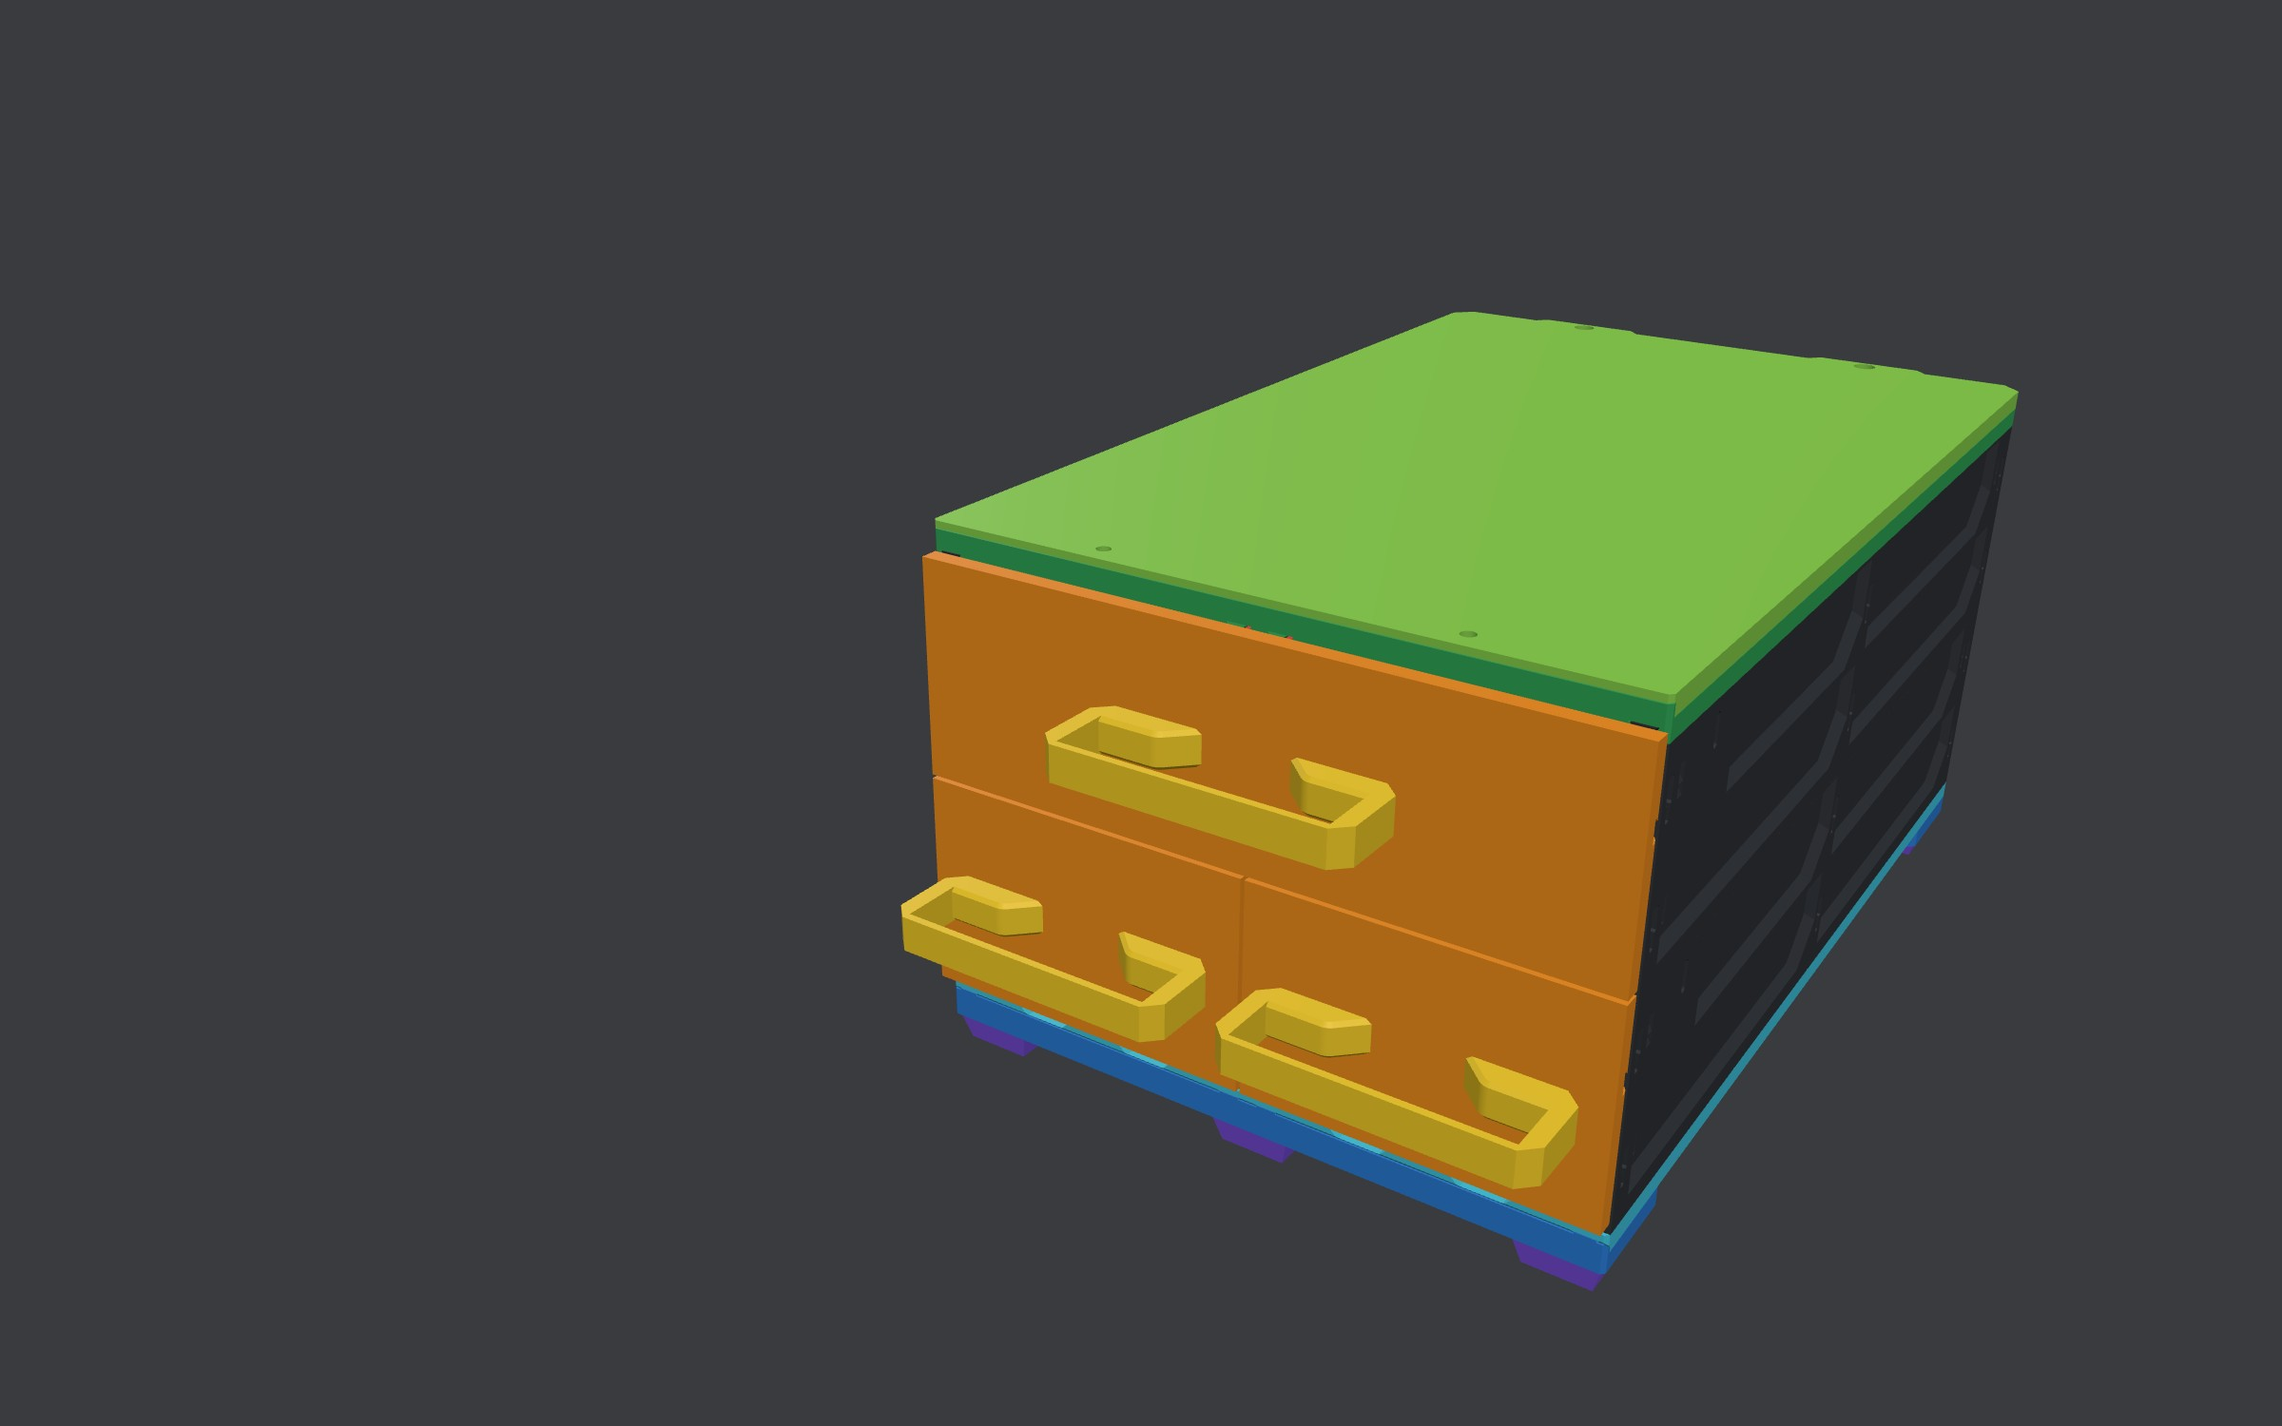
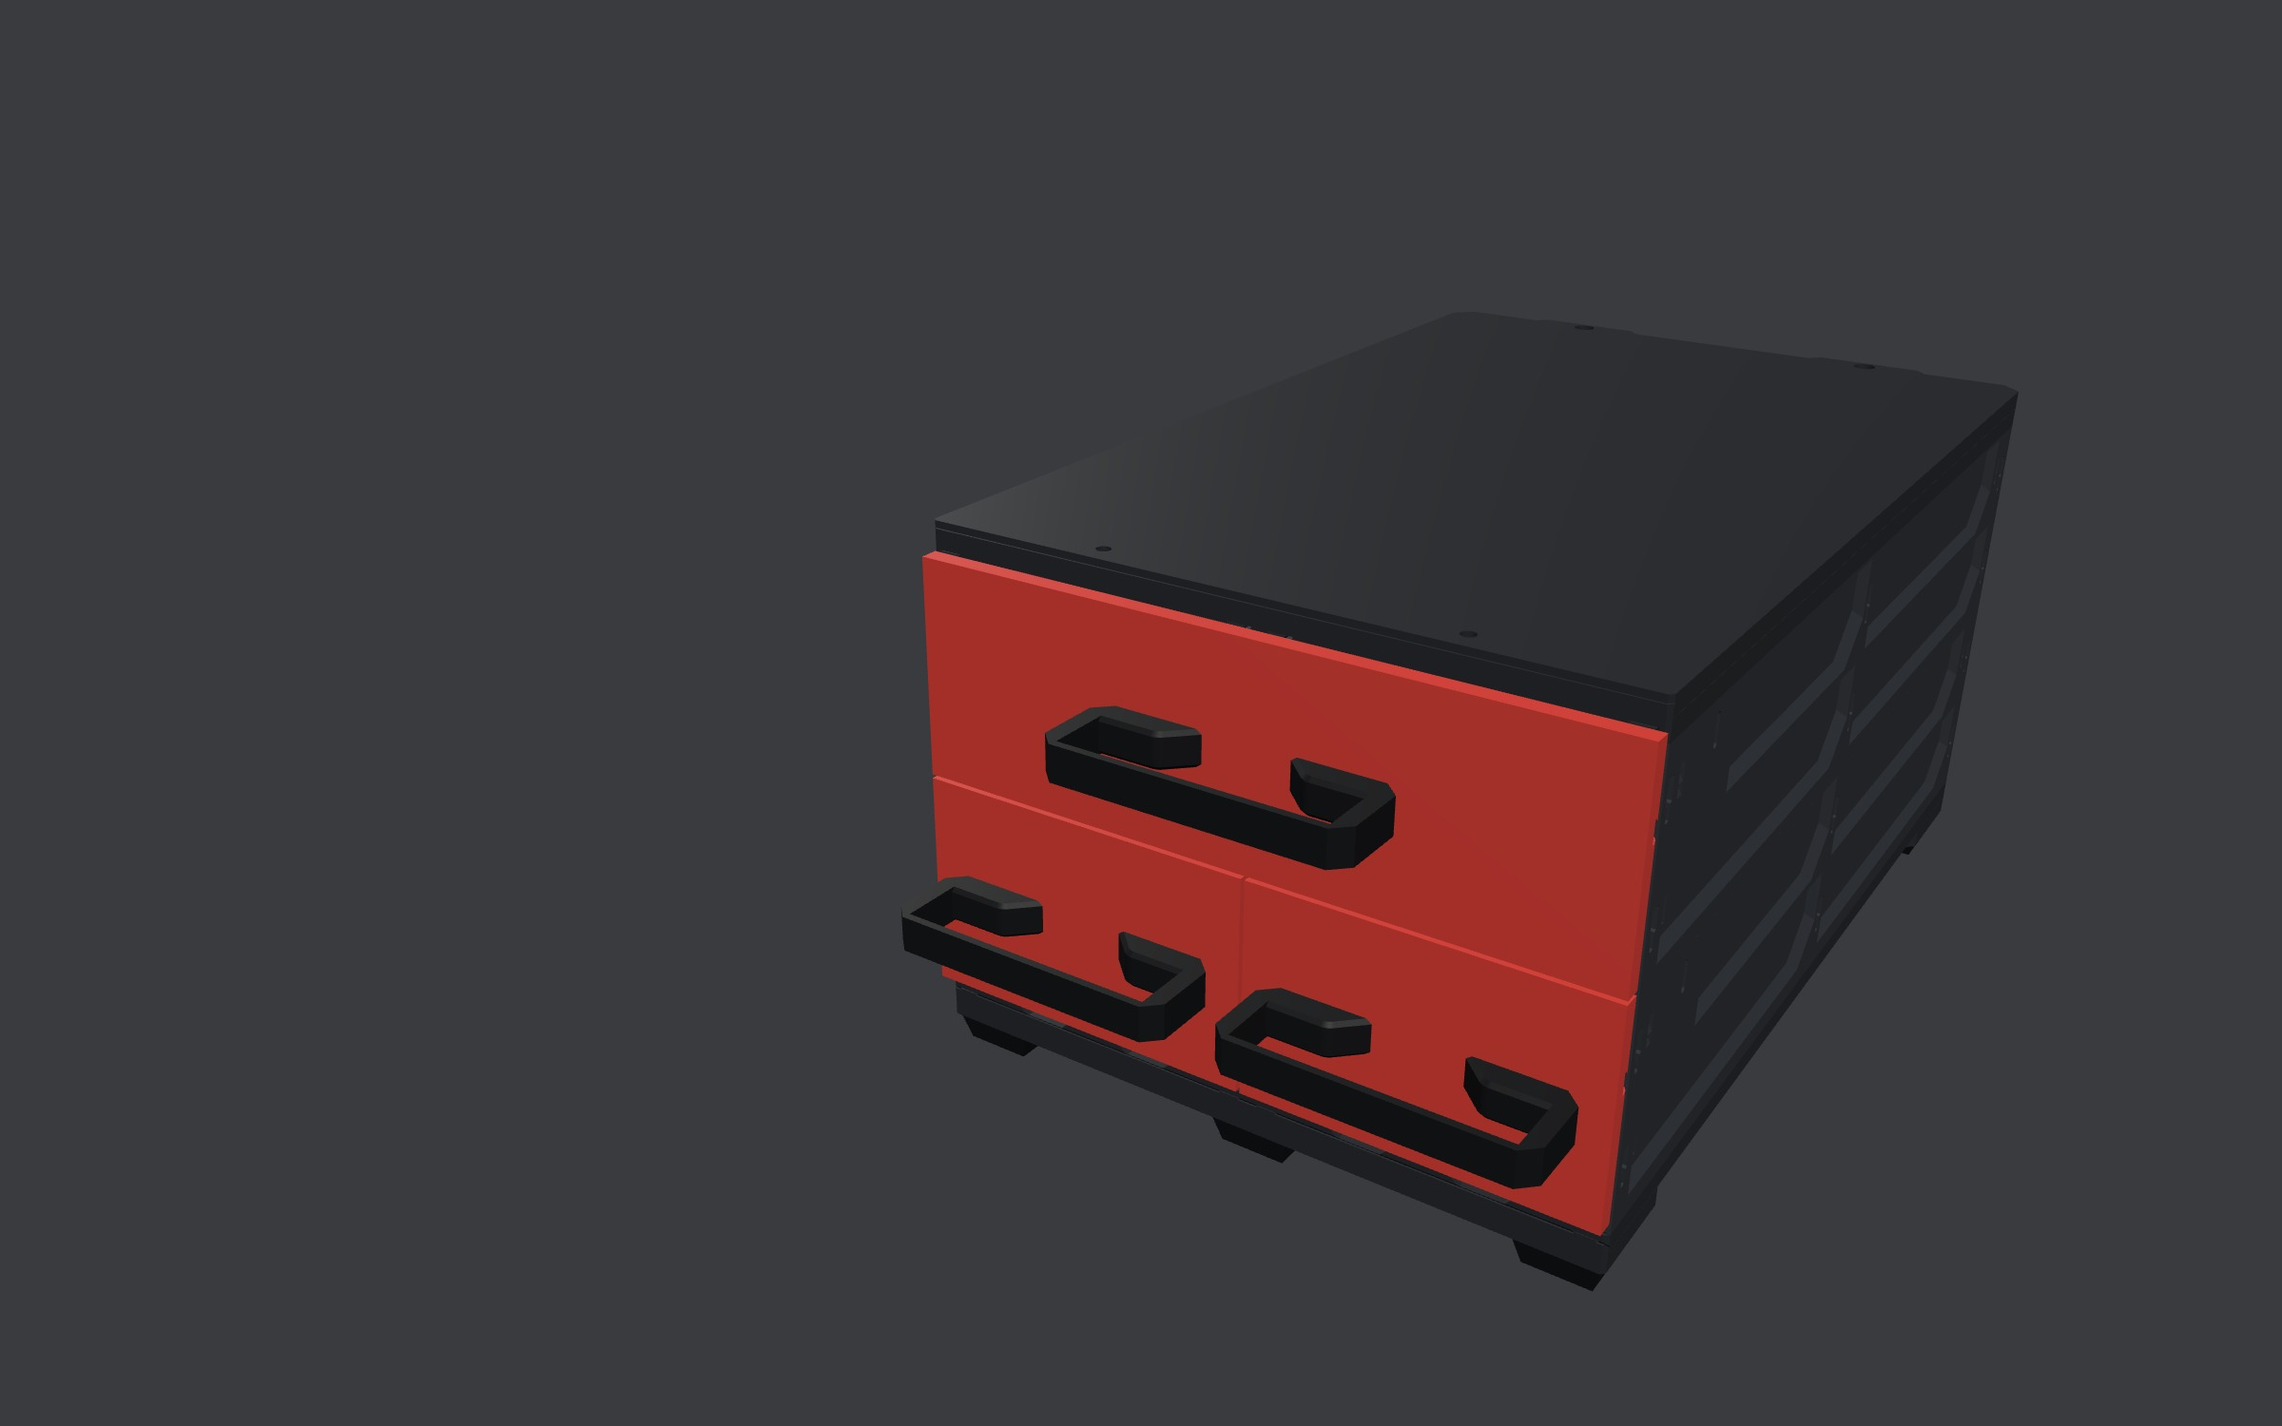
Starter Kits: per-collection card art, mount-ready sections, dimmer card art
Card art (Joey): every kit looked the same at thumbnail size because they all
wore the instruction rainbow. captureShot() now forces a product palette —
faceplates take the COLLECTION color (the planner's lineup palette) and the
rest of the shell goes graphite/black, so 115 grey / 165 blue / 185 orange /
240 green / 270 red are distinguishable at a glance. The shot logic moved into
captureShot() and is exported on the debug hook, so automated captures drive
the exact same path as ?shot=1 instead of a copy that can drift. All seven
renders + banners regenerated.

Card gradient holds further right so the art sits back behind the copy.

Framing: "Official kits" -> "GEN2 starter kits · lay the first brick" — these
are a starting point to expand from, not a badge of authority.

Sections are now MOUNT × SIZE ahead of the under-table/wall kits: rows carry
`mount`, headings read "Tabletop · 2W-2H" once more than one mount exists, and
a mount filter bar appears on the same condition. Mount leads because it's the
planner's question 1 and the builder's real constraint. Verified by injecting
fake wall/under-table rows: 4 filter chips, 5 correctly-ordered sections,
filtering narrows to 2 cards.

diff --git a/viewer/builds/index.html b/viewer/builds/index.html
@@ -3,8 +3,8 @@
 <head>
 <meta charset="utf-8">
 <meta name="viewport" content="width=device-width, initial-scale=1">
-<title>Official GEN2 Kits — 3D Build Studio</title>
-<meta name="description" content="Preconfigured GEN2 builds with interactive LEGO-style 3D assembly instructions. Pick a kit, follow the steps, make it yours.">
+<title>GEN2 Starter Kits — 3D Build Studio</title>
+<meta name="description" content="Ready-made GEN2 builds with interactive LEGO-style 3D assembly instructions. Print a starter kit, follow the steps, then expand it in the planner.">
 <style>
 /* A secondary page of the GEN2 Planner — the :root tokens, parallax hero,
    brand bar and footer are all mirrored from gen2-planner css/style.css so the
@@ -131,6 +131,15 @@ a { color: var(--accent); }
 }
 .tier-head h2 { font-size: 1.05rem; margin: 0; }
 .tier-head span { font-size: 0.85rem; color: var(--muted); }
+/* mount filter — only rendered once there's more than one mount to pick from */
+.filter-bar { display: flex; gap: 8px; flex-wrap: wrap; margin: 22px 0 2px; }
+.filter-chip {
+  font: inherit; font-size: 0.82rem; font-weight: 600; cursor: pointer;
+  color: var(--muted); background: transparent;
+  border: 1px solid var(--line); border-radius: 999px; padding: 6px 14px;
+}
+.filter-chip:hover { color: var(--text); border-color: var(--muted); }
+.filter-chip.on { color: #1d1e20; background: var(--accent); border-color: var(--accent); }
 .tier-grid {
   display: grid; grid-template-columns: repeat(auto-fill, minmax(480px, 1fr)); gap: 20px;
   align-content: start; margin-top: 14px;
@@ -156,8 +165,10 @@ a { color: var(--accent); }
 .kit-card:hover { transform: translateY(-2px); box-shadow: 0 8px 22px rgba(0,0,0,0.45); }
 .kit-card::before {                     /* legibility gradient over the render */
   content: ""; position: absolute; inset: 0;
+  /* holds all the way to the right edge (…,0.20) so the art sits back a little
+     and the copy always wins — Joey asked for the image to drop in opacity */
   background: linear-gradient(90deg,
-    rgba(44,45,49,0.94) 0%, rgba(44,45,49,0.82) 42%, rgba(44,45,49,0.25) 75%, rgba(44,45,49,0.05) 100%);
+    rgba(44,45,49,0.97) 0%, rgba(44,45,49,0.90) 44%, rgba(44,45,49,0.45) 74%, rgba(44,45,49,0.20) 100%);
   pointer-events: none;
 }
 .kit-body { position: relative; padding: 18px 20px; max-width: 78%; }
@@ -228,9 +239,9 @@ a { color: var(--accent); }
     </span>
   </div>
   <div class="hero-tagline">
-    <h1>Official GEN2 kits &middot; proven builds, ready to print.</h1>
-    <p>Pick a kit and follow the interactive 3D guide step by step - every part, quantity and download link included. Open it in the planner whenever you want to make it your own.</p>
-    <div class="hero-chips"><span>Proven layouts</span><span>Interactive 3D guide</span><span>Full parts list</span></div>
+    <h1>GEN2 starter kits &middot; lay the first brick.</h1>
+    <p>A ready-made build to get you going - follow the interactive 3D guide step by step, with every part, quantity and download link included. Expand it or make it your own in the planner whenever you're ready.</p>
+    <div class="hero-chips"><span>Nothing to design</span><span>Interactive 3D guide</span><span>Full parts list</span></div>
   </div>
 </header>
 
@@ -278,38 +289,80 @@ for (const a of document.querySelectorAll('.planner-link, #brand-home')) a.href 
 // render (builds/img/<id>.jpg). Length colors mirror the planner's
 // GEN2.lengths palette exactly.
 const LENGTH_COLORS = { 59: '#f2f2f2', 115: '#9ea3a8', 165: '#3aa0e8', 185: '#ff8a40', 240: '#3ecfa0', 270: '#e8453c' };
+/* Sections are keyed by MOUNT × SIZE, in that order. Mount is the first thing a
+   builder actually knows ("where will this live?") and it's the planner's own
+   question 1, so it leads; size is the progression inside it. A flat list of
+   (mount, size) sections beats nesting — it stays scannable as under-table and
+   wall kits land, and the mount filter below keeps the page from growing
+   unbounded. Rows missing mount/tier fall into the first of each. */
+const MOUNTS = [
+  { key: 'tabletop',    label: 'Tabletop' },
+  { key: 'under-table', label: 'Under-Table' },
+  { key: 'wall',        label: 'Wall Mount' },
+];
 const TIERS = [
-  { key: 'starter', title: 'Start here', blurb: '2W-2H · your first GEN2 build - 3 drawers, about 42 printed parts.' },
-  { key: 'next',    title: 'Go bigger',  blurb: '3W-2H · the same assembly one column wider - 5 drawers, and the covers stagger brick-style.' },
+  { key: 'starter', label: '2W-2H', blurb: 'Start here - 3 drawers, about 42 printed parts.' },
+  { key: 'next',    label: '3W-2H', blurb: 'One column wider - 5 drawers, and the covers stagger brick-style.' },
 ];
 
+let ALL_KITS = [];
+let mountFilter = 'all';
+
 fetch('index.json').then(r => r.json()).then(kits => {
-  const main = document.getElementById('kits');
-  main.innerHTML = '';
-  if (!Array.isArray(kits) || !kits.length) {
-    main.innerHTML = '<div id="empty">No kits published yet — check back soon!</div>';
-    return;
-  }
-  // group into tiers; anything with an unknown/missing tier lands in the first
-  const groups = TIERS.map(t => ({ ...t, kits: kits.filter(k => (k.tier || TIERS[0].key) === t.key) }))
-    .filter(g => g.kits.length);
-  for (const g of groups) {
-    if (groups.length > 1) {
-      const head = document.createElement('div');
-      head.className = 'tier-head';
-      const h = document.createElement('h2'); h.textContent = g.title;
-      const s = document.createElement('span'); s.textContent = g.blurb;
-      head.append(h, s);
-      main.appendChild(head);
-    }
-    const grid = document.createElement('div');
-    grid.className = 'tier-grid';
-    main.appendChild(grid);
-    renderCards(g.kits, grid);
-  }
+  ALL_KITS = Array.isArray(kits) ? kits : [];
+  render();
 }).catch(() => {
   document.getElementById('kits').innerHTML = '<div id="empty">Couldn’t load the kit list — try refreshing.</div>';
 });
+
+function render() {
+  const main = document.getElementById('kits');
+  main.innerHTML = '';
+  if (!ALL_KITS.length) {
+    main.innerHTML = '<div id="empty">No kits published yet — check back soon!</div>';
+    return;
+  }
+  const mountOf = k => k.mount || MOUNTS[0].key;
+  const present = MOUNTS.filter(m => ALL_KITS.some(k => mountOf(k) === m.key));
+  // the filter only earns its space once there's more than one mount to choose
+  if (present.length > 1) main.appendChild(buildFilter(present));
+
+  const shown = ALL_KITS.filter(k => mountFilter === 'all' || mountOf(k) === mountFilter);
+  for (const m of present) {
+    if (mountFilter !== 'all' && m.key !== mountFilter) continue;
+    for (const t of TIERS) {
+      const group = shown.filter(k => mountOf(k) === m.key && (k.tier || TIERS[0].key) === t.key)
+        .sort((a, b) => (a.length || 0) - (b.length || 0));
+      if (!group.length) continue;
+      const head = document.createElement('div');
+      head.className = 'tier-head';
+      const h = document.createElement('h2');
+      // with a single mount the label would just repeat itself on every heading
+      h.textContent = present.length > 1 ? `${m.label} · ${t.label}` : t.label;
+      const s = document.createElement('span');
+      s.textContent = t.blurb;
+      head.append(h, s);
+      const grid = document.createElement('div');
+      grid.className = 'tier-grid';
+      main.append(head, grid);
+      renderCards(group, grid);
+    }
+  }
+}
+
+function buildFilter(present) {
+  const bar = document.createElement('div');
+  bar.className = 'filter-bar';
+  for (const opt of [{ key: 'all', label: 'All kits' }, ...present]) {
+    const b = document.createElement('button');
+    b.type = 'button';
+    b.className = 'filter-chip' + (mountFilter === opt.key ? ' on' : '');
+    b.textContent = opt.label;
+    b.onclick = () => { mountFilter = opt.key; render(); };
+    bar.appendChild(b);
+  }
+  return bar;
+}
 
 function renderCards(kits, main) {
   for (const k of kits) {

diff --git a/viewer/js/main.js b/viewer/js/main.js
@@ -3253,12 +3253,32 @@ booted = true;
 // chrome never reaches toDataURL). Repeatable for every future official kit:
 // open ?build=<id>&shot=1, save the download, commit. The render loop's own
 // resize() restores the canvas on the next frame, so the page stays usable.
-if (new URLSearchParams(location.search).get('shot')) {
+// The planner's per-length lineup colors (data.js GEN2.lengths) — card art is
+// tinted with them so the kits don't all look identical across collections.
+const SHOT_LEN_COLORS = { 59: '#f2f2f2', 115: '#9ea3a8', 165: '#3aa0e8', 185: '#ff8a40', 240: '#3ecfa0', 270: '#e8453c' };
+function captureShot() {
   applyState(manifest.steps.length - 1);          // assembled, deterministic
   table.visible = grid.visible = false;
   if (isWallBuild) wall.visible = false;
   if (isUnderTableBuild) surface.visible = false;
   scene.background = new THREE.Color(0x3a3b3f);
+  // Card palette (Joey 2026-07-24): the instruction rainbow made every kit read
+  // the same at thumbnail size. Faceplates take the COLLECTION color and the
+  // rest of the shell goes graphite, so the length is the thing you see first.
+  // Deterministic — it replaces whatever palette the tab happens to be holding.
+  const shotHex = SHOT_LEN_COLORS[parseInt(manifest.collection, 10)];
+  if (shotHex) {
+    const graphite = { name: 'Graphite', hex: '#2b2d31' }, dark = { name: 'Black', hex: '#17181a' };
+    customColors = {
+      Faceplate: { name: 'Collection', hex: shotHex },
+      Handle: dark, Accent: dark, Label: { name: 'White', hex: '#eef0f4' },
+      CoverL: graphite, CoverU: graphite, FootrailL: graphite, FootrailU: graphite,
+      Foot: dark, QuickLock: graphite, Stopper: graphite, Rail: graphite,
+      Drawer: { name: 'Shell', hex: '#3c3f45' },
+    };
+    useCustom = true;
+    applyPalette();
+  }
   const W = 1200, H = 750;                        // 16:10 — the gallery card's aspect
   renderer.setSize(W, H, false);
   camera.aspect = W / H;
@@ -3273,8 +3293,11 @@ if (new URLSearchParams(location.search).get('shot')) {
   camera.position.copy(pos);
   camera.lookAt(target);
   renderer.render(scene, camera);
+  return renderer.domElement.toDataURL('image/jpeg', 0.92);
+}
+if (new URLSearchParams(location.search).get('shot')) {
   const a = document.createElement('a');
-  a.href = renderer.domElement.toDataURL('image/jpeg', 0.92);
+  a.href = captureShot();
   a.download = (OFFICIAL ? OFFICIAL.id : 'build') + '.jpg';
   a.click();
 }
@@ -3325,6 +3348,6 @@ renderer.setAnimationLoop(now => {
 // dev-only hook (mirrors the planner's guarded test-hook convention): ?debug=1
 if (new URLSearchParams(location.search).get('debug')) {
   window.__GEN2_VIEWER__ = { THREE, scene, camera, controls, goTo, applyState, instances, manifest, cinema, updateCinema, cinemaScene, party, confetti, confettiPop, fpFocus, fpEnv,
-    renderer, table, grid, camPos, get buildCenter() { return buildCenter; },
+    renderer, table, grid, camPos, captureShot, get buildCenter() { return buildCenter; },
     get build() { return build; }, regenerate, setSelected, get selectedId() { return selectedId; } };
 }

diff --git a/CLAUDE.md b/CLAUDE.md
@@ -679,8 +679,14 @@ EXACT panel gray #3a3b3f, 1200×750 @ t35/p66/fov40 fit 0.95, slides camera+
 target along screen-left by buildRadius·0.5 so the build sits RIGHT-of-center
 (text column overlays the empty left), downloads `<id>.jpg` → commit to
 `builds/img/`. The page contain-fits the render (never crops; the matched bg
-gray blends seamlessly — a missing image degrades to a plain panel). NB the
-capture rides the ACTIVE palette — apply a preset first for themed art.
+gray blends seamlessly — a missing image degrades to a plain panel).
+**Card palette (Joey 2026-07-24):** the instruction rainbow made all five kits
+look identical at thumbnail size, so captureShot() FORCES its own product
+palette — faceplates take the collection color (SHOT_LEN_COLORS, the planner's
+lineup palette), everything else goes graphite/black. Deterministic: it
+replaces whatever palette the tab holds, so re-captures are reproducible.
+`captureShot()` is exported on the debug hook, so an automated capture drives
+the exact same code path as `?shot=1`.
 Debug hook also exposes renderer/table/grid/camPos/buildCenter now. **Authoring:** the planner's
 "📦 Export official kit" button (Save & share block, `IS_LOCAL_DEV`-gated —
 invisible in prod) prompts title/id(slugified, editable)/tagline, downloads the
@@ -725,6 +731,13 @@ appear, grouped "Start here" / "Go bigger" via each index.json row's `tier`
 are two layers** (upper footrail + upper cover steps in generate.js): the
 lower cover carries the stopper slots and dovetails, the upper locks them in.
 That fires on every ≤2W build, planner-generated ones included.
+**Gallery sections are MOUNT × SIZE** (2026-07-24, ahead of under-table/wall
+kits): each index.json row carries `mount` + `tier`, sections render as
+"Tabletop · 2W-2H" (the mount prefix appears only once >1 mount exists), and a
+mount filter bar appears on the same condition. Mount leads because it's the
+planner's own question 1 and the builder's hard constraint; size is the
+progression inside it. Flat (mount, size) sections beat nesting — they stay
+scannable as the matrix fills. Verified by injecting fake wall/under-table rows.
 **Printables banners:** `viewer/builds/banner.html` (dev tool, same folder as
 the gallery) composites a 1600×900 banner per kit from its `?shot=1` render —
 length-colored accent spine + eyebrow, "Interactive 3D Build Guide" headline,
